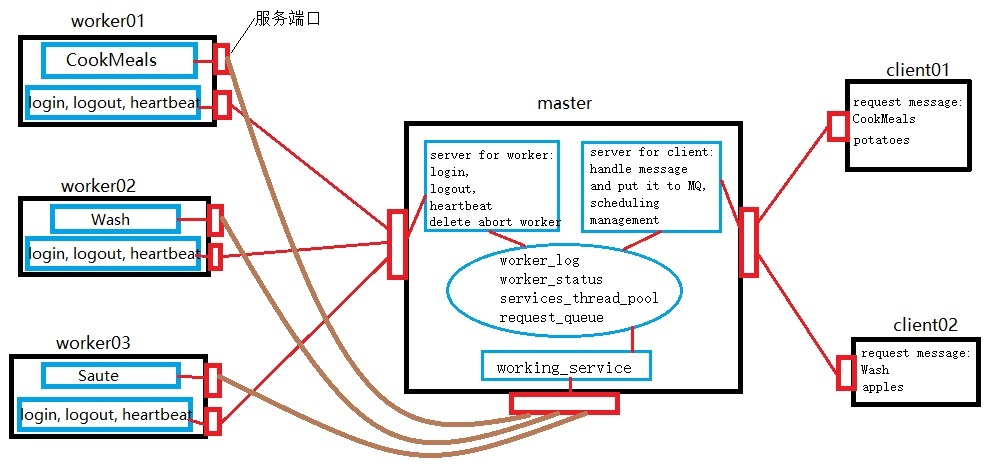
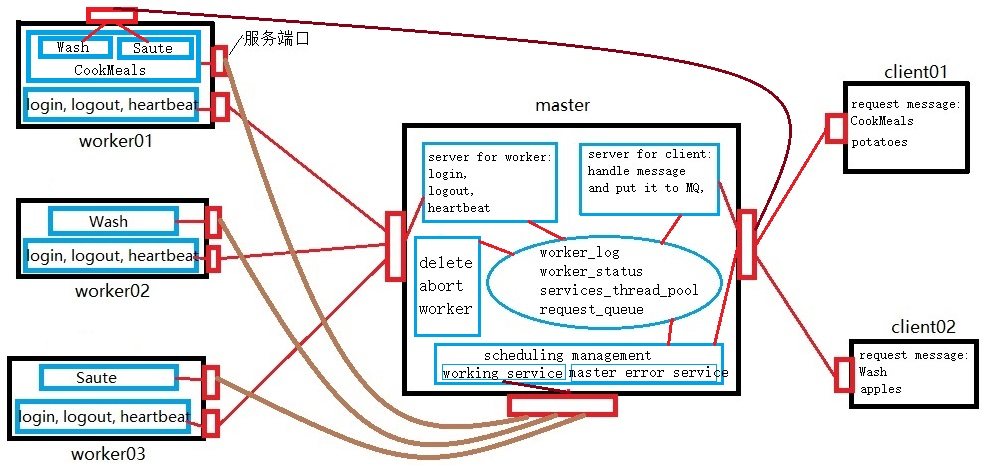
修改readme.md

diff --git a/readme.md b/readme.md
@@ -3,3 +3,15 @@
 ### 介绍
 
 此分布式框架拥有一个master_node和多个work_node，work_node启动时需要向MN进行服务注册，启动后需要定时向MN发送心跳以告知MN自己还活着（生命检测机制），MN维护一个消息队列MQ，用于收发消息，同时创建一个线程池，进行调度管理。客户端Client通过MN来完成一些work。
+
+此分布式小型框架拥有一个主节点（master）和多个工作节点（worker），每个worker都提供某个（或某些）服务（service），当worker启动服务后，需要向master进行服务注册（login），以告知master自己提供的具体服务。在服务注册后worker需要定时向master发送心跳以证明自己处于working状态（心跳机制/生命检测机制）。主节点master开启两个端口，分别监听来自worker和client（客户端）的请求。master为worker提供服务注册（login）、服务注销（logout）、心跳接收（heartbeat）及删除意外终止工作节点（delete abort node）的注册信息服务；master为client提供消息队列（message queue）处理服务及服务调度管理（scheduling management）服务。master为每一个worker注册过的服务维护一个服务线程池，以管理各个服务的并发线程数（线程池的最大线程数来自服务注册信息）。同时master还维护一个先进先出的消息队列，当master接收到来自client的请求时，并不立刻响应，而是将请求消息经过处理后放入消息队列中。master时刻运行着服务调度管理，若消息队列不为空，则获取消息数据并根据其服务信息找到相应的工作节点worker，若此worker处于working状态，则master会通过working_service服务向指定worker发起服务请求，得到处理结果后，再将此结果返回给相应client。
+
+在master节点内共维护四个全局变量：（1）worker_log用来存储每个worker的注册信息；（2）worker_status用来存储每个worker的状态信息（分为working和unworking状态）；（3）services_thread_pool用来存放每个已注册服务的工作节点的线程池；（4）request_queue作为消息队列，存放来自client的请求消息（数据结果处理）。
+
+在本系统中，worker提供的服务其内部实现也可以调用其他worker的服务，所有worker提供的服务对其他worker及client而言是透明的，其他worker及client不需要关心该服务内部具体如何实现，也不需要关心提供该服务的worker所在的具体位置（如worker的ip及port等信息），而只需要关心服务名，通过向master提供服务名及所需参数就可以使用该服务。
+
+本文以一个具体的应用场景来描述该分布式框架系统。系统中包含一个master，三个worker和两个client。worker01提供做饭（CookMeals）服务，该服务需按顺序调用两个子服务：洗菜（Wash）服务和炒菜（Saute）服务。worker02提供Wash服务，worker03提供Saute服务。clinet01请求做一盘土豆的菜；client02请求洗苹果。整个系统的架构如下图所示：
+
+![分布式系统架构图](architecture.jpg)
+
+本系统由Python3编写，各个节点的ip地址、端口号等参数保存至相应的.conf文件中，其各个功能模块具体设计说明如 ***系统设计说明.pdf*** 文件所述。
